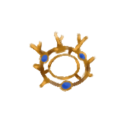
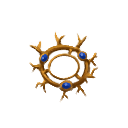
removed old images and added new images, started working on new shared pain effect

Changed region(s): [[0.2188, 0.25, 0.7812, 0.8125]]

diff --git a/theUnchainedMod/src/main/java/theUnchainedMod/vfx/SharePainEffect.java b/theUnchainedMod/src/main/java/theUnchainedMod/vfx/SharePainEffect.java
@@ -2,6 +2,7 @@ package theUnchainedMod.vfx;
 
 import com.badlogic.gdx.Gdx;
 import com.badlogic.gdx.graphics.Color;
+import com.badlogic.gdx.graphics.Texture;
 import com.badlogic.gdx.graphics.g2d.SpriteBatch;
 import com.badlogic.gdx.graphics.g2d.TextureAtlas;
 import com.badlogic.gdx.math.CatmullRomSpline;
@@ -10,8 +11,13 @@ import com.badlogic.gdx.math.Vector2;
 import com.megacrit.cardcrawl.core.Settings;
 import com.megacrit.cardcrawl.helpers.ImageMaster;
 import com.megacrit.cardcrawl.vfx.AbstractGameEffect;
+import org.lwjgl.Sys;
 
 import java.util.ArrayList;
+import java.util.Random;
+
+import static com.megacrit.cardcrawl.helpers.ImageMaster.loadImage;
+import static theUnchainedMod.TheUnchainedMod.makeVFXPath;
 
 public class SharePainEffect extends AbstractGameEffect {
     private final TextureAtlas.AtlasRegion img;
@@ -31,6 +37,7 @@ public class SharePainEffect extends AbstractGameEffect {
     private boolean rotateClockwise = true;
     private boolean stopRotating = false;
     private float rotationRate;
+    private static Texture glyph;
 
     public SharePainEffect(float sX, float sY, float dX, float dY) {
         this.img = ImageMaster.GLOW_SPARK_2;
@@ -43,7 +50,10 @@ public class SharePainEffect extends AbstractGameEffect {
         this.rotationRate = MathUtils.random(300.0F, 350.0F) * Settings.scale;
         this.currentSpeed = START_VELOCITY * MathUtils.random(0.2F, 1.0F);
         this.color = new Color(0.9f, 0.3f, 0.86f, 1.0f);
+        //this.color = new Color(0.9f, 0.3f, 0.86f, 0.2f);
         this.duration = 1.3F;
+        int randomGlyphAmount = (int)(Math.random() * 8) + 1;
+        this.glyph = loadImage(makeVFXPath("glyphs/" + randomGlyphAmount + ".png"));
     }
 
     public void update() {
@@ -126,13 +136,20 @@ public class SharePainEffect extends AbstractGameEffect {
 
     public void render(SpriteBatch sb) {
         if (!this.isDone) {
-            sb.setBlendFunction(770, 1);
-            sb.setColor(this.color);
             float scale = Settings.scale * 1.5F;
 
+            //sb.setBlendFunction(770, 1);
             for(int i = this.points.length - 1; i > 0; --i) {
                 if (this.points[i] != null) {
+                    sb.setBlendFunction(770, 1);
+                    sb.setColor(this.color);
                     sb.draw(this.img, this.points[i].x - (float)(this.img.packedWidth / 2), this.points[i].y - (float)(this.img.packedHeight / 2), (float)this.img.packedWidth / 2.0F, (float)this.img.packedHeight / 2.0F, (float)this.img.packedWidth, (float)this.img.packedHeight, scale, scale, this.rotation);
+
+                    //sb.setBlendFunction(770, 1);
+                    //sb.setColor(Color.WHITE);
+                    //sb.setColor(color);
+                    //sb.draw(glyph, this.points[i].x - (float)(this.img.packedWidth / 2), this.points[i].y - (float)(this.img.packedHeight / 2), (float)this.img.packedWidth / 2.0F, (float)this.img.packedHeight / 2.0F, (float)this.img.packedWidth, (float)this.img.packedHeight, scale, scale, this.rotation, 0, 0, 128, 128, false, false);
+
                     scale *= 0.975F;
                 }
             }

diff --git a/theUnchainedMod/src/main/java/theUnchainedMod/powers/BarbedWireChainsPower.java b/theUnchainedMod/src/main/java/theUnchainedMod/powers/BarbedWireChainsPower.java
@@ -23,8 +23,8 @@ public class BarbedWireChainsPower extends AbstractPower {
     public static final String NAME = powerStrings.NAME;
     public static final String[] DESCRIPTIONS = powerStrings.DESCRIPTIONS;
 
-    private static final Texture texture48 = TextureLoader.getTexture("theUnchainedModResources/images/powers/BarbedWireChains_power48.png");
-    private static final Texture texture128 = TextureLoader.getTexture("theUnchainedModResources/images/powers/BarbedWireChains_power128.png");
+    private static final Texture texture48 = TextureLoader.getTexture("theUnchainedModResources/images/powers/BarbedWire_power48.png");
+    private static final Texture texture128 = TextureLoader.getTexture("theUnchainedModResources/images/powers/BarbedWire_power128.png");
 
     public BarbedWireChainsPower(final AbstractCreature owner, final AbstractCreature source, final int amount) {
         name = NAME;

diff --git a/theUnchainedMod/src/main/java/theUnchainedMod/powers/ArcaneMasteryPower.java b/theUnchainedMod/src/main/java/theUnchainedMod/powers/ArcaneMasteryPower.java
@@ -16,8 +16,8 @@ public class ArcaneMasteryPower extends AbstractPower {
     public static final String NAME = powerStrings.NAME;
     public static final String[] DESCRIPTIONS = powerStrings.DESCRIPTIONS;
 
-    private static final Texture texture48 = TextureLoader.getTexture("theUnchainedModResources/images/powers/RelayPower_power48.png");
-    private static final Texture texture128 = TextureLoader.getTexture("theUnchainedModResources/images/powers/RelayPower_power128.png");
+    private static final Texture texture48 = TextureLoader.getTexture("theUnchainedModResources/images/powers/ArcaneMastery_power48.png");
+    private static final Texture texture128 = TextureLoader.getTexture("theUnchainedModResources/images/powers/ArcaneMastery_power128.png");
 
     public ArcaneMasteryPower(final AbstractCreature owner, final int amount) {
         name = NAME;

diff --git a/theUnchainedMod/src/main/java/theUnchainedMod/vfx/ArcaneArtilleryEffect.java b/theUnchainedMod/src/main/java/theUnchainedMod/vfx/ArcaneArtilleryEffect.java
@@ -43,7 +43,7 @@ public class ArcaneArtilleryEffect extends AbstractGameEffect {
         this.rotationRate = MathUtils.random(300.0F, 350.0F) * Settings.scale;
         this.currentSpeed = START_VELOCITY * MathUtils.random(0.2F, 1.0F);
         this.color = new Color(0.9f, 0.3f, 0.86f, 1.0f);
-        this.duration = 1.3F;
+        this.duration = 1.0F;
     }
 
     public void update() {
